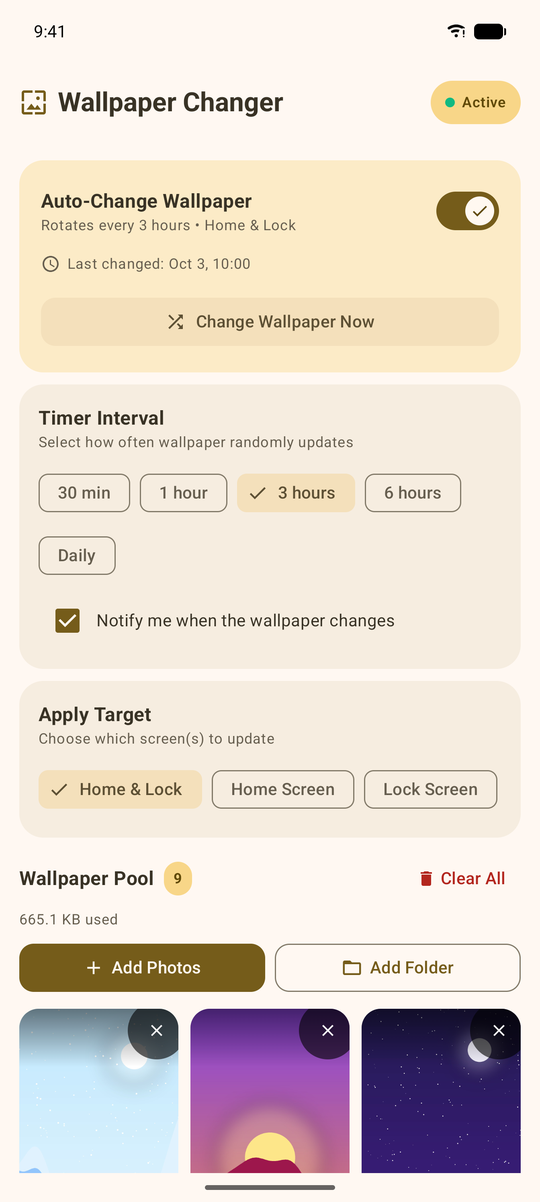
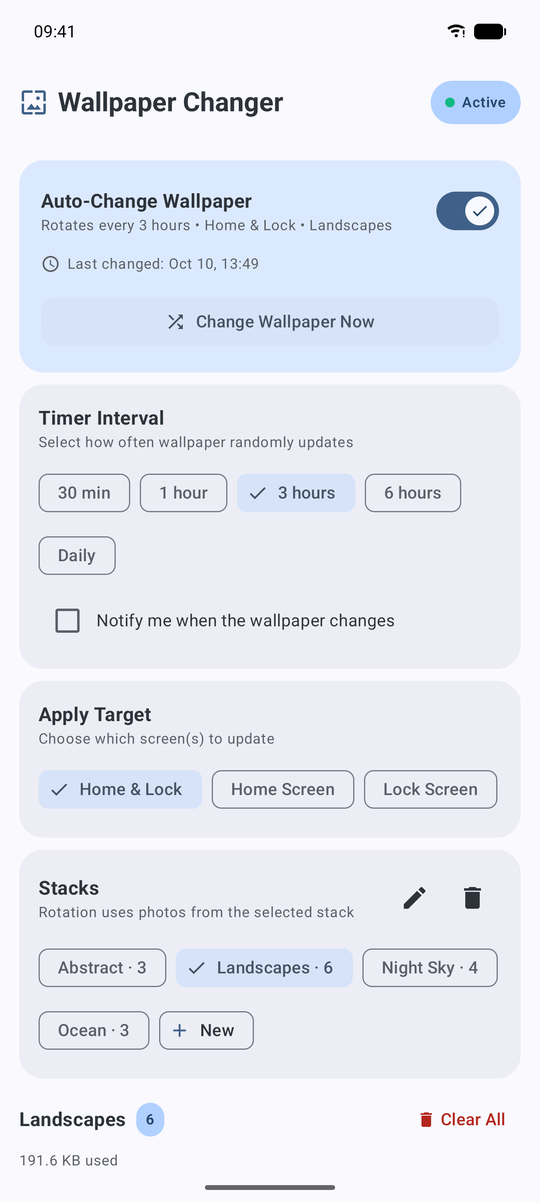
docs: README stacks section and fresh screenshots
Screenshots are from an emulator with generated demo images (no personal photos).

diff --git a/README.md b/README.md
@@ -18,9 +18,9 @@
 
 ## Screenshots
 
-| Set it & forget it | Your photo pool | Preview | On your home screen |
+| Set it & forget it | Your stacks | Preview & move | On your home screen |
 | :---: | :---: | :---: | :---: |
-| <img src="docs/screenshots/main.png" width="200"> | <img src="docs/screenshots/pool.png" width="200"> | <img src="docs/screenshots/preview.png" width="200"> | <img src="docs/screenshots/home.png" width="200"> |
+| <img src="docs/screenshots/main.png" width="200"> | <img src="docs/screenshots/stacks.png" width="200"> | <img src="docs/screenshots/preview.png" width="200"> | <img src="docs/screenshots/home.png" width="200"> |
 
 With Material You, the app re-themes itself to match the wallpaper it just set:
 
@@ -33,11 +33,24 @@ With Material You, the app re-themes itself to match the wallpaper it just set:
 - 🖼 **Photos or whole folders**: system photo picker, or import an entire album
 - ⏱ **Intervals**: 30 min · 1 h · 3 h · 6 h · daily
 - 📱 **Targets**: home screen, lock screen, or both
-- 🗂 **Stacks**: group photos (wallpapers, landscapes, friends…), rename them, and pick which one rotates
+- 🗂 **Stacks**: group photos (wallpapers, landscapes, friends…), rename them, move photos between them, and pick which one rotates
 - 🔀 **Shuffle bag**: every photo gets a turn before any repeats
 - 🔋 **Battery-friendly**: pauses in Battery Saver and on low battery, resumes on its own
 - 🔔 **Optional notification** with a preview of the new wallpaper
 - 🔒 **Private**: no internet permission, no accounts, no ads, no analytics
+
+## Stacks
+
+Keep separate sets of photos, say *Wallpapers*, *Landscapes* and *Friends*, and choose which one rotates.
+
+- **Switch**: tap a stack's chip. The grid below shows that stack, and rotation draws only from it.
+- **Create / rename / delete**: the **New** chip, ✏ and 🗑 on the Stacks card. Deleting a stack removes its photos from the app (your gallery originals are untouched).
+- **Move a photo**: tap it to open the preview, then use the move button to send it to another stack.
+- **Upgrading from an older version?** Your existing photos are moved into a **My Photos** stack automatically, nothing to re-import.
+
+| Switch stacks | Rename a stack |
+| :---: | :---: |
+| <img src="docs/screenshots/stack-switch.png" width="200"> | <img src="docs/screenshots/stack-rename.png" width="200"> |
 
 ## Example setups
 
@@ -47,21 +60,22 @@ With Material You, the app re-themes itself to match the wallpaper it just set:
 | Keep the lock screen surprising, the home screen calm | 1 hour | Lock Screen |
 | Slow-cycle a seasonal art folder | 6 hours | Home Screen |
 | Get through a big album quickly | 30 min | Home & Lock |
+| Friends this week, landscapes next: just tap another stack | 3 hours | Home & Lock |
 
 ## How it works
 
 ```mermaid
 flowchart LR
-    A[Photo picker / folder] -->|copy + de-dupe| B[(App-private storage)]
+    A[Photo picker / folder] -->|copy + de-dupe| B[(App-private storage<br>one folder per stack)]
     C[WorkManager periodic job] --> D{Battery Saver<br>or low battery?}
     D -- yes --> E[Skip, retry next cycle]
-    D -- no --> F[Shuffle bag picks next photo]
+    D -- no --> F[Shuffle bag picks next photo<br>from the selected stack]
     B --> F
     F --> G[Decode, fix EXIF, downsample]
     G --> H[WallpaperManager: home / lock]
 ```
 
-Photos are copied into `filesDir/wallpapers/` so rotation never breaks when the original moves or a URI permission expires. Settings live in DataStore.
+Photos are copied into `filesDir/wallpapers/<stack name>/` so rotation never breaks when the original moves or a URI permission expires. Each stack is just a folder, so renaming a stack is a folder rename. Settings, including the selected stack, live in DataStore.
 
 ## Build & run
 
@@ -79,7 +93,7 @@ make help         # everything else
 
 ```
 app/src/main/java/com/gcg/wpchanger/
-├── data/     # repository, DataStore prefs, shuffle bag, WallpaperManager helper
+├── data/     # repository, stacks, DataStore prefs, shuffle bag, WallpaperManager helper
 ├── ui/       # Compose screen + ViewModel, Material 3 theme
 └── worker/   # WorkManager job, scheduler, notifications
 fastlane/metadata/android/   # Play Store listing text + graphics
